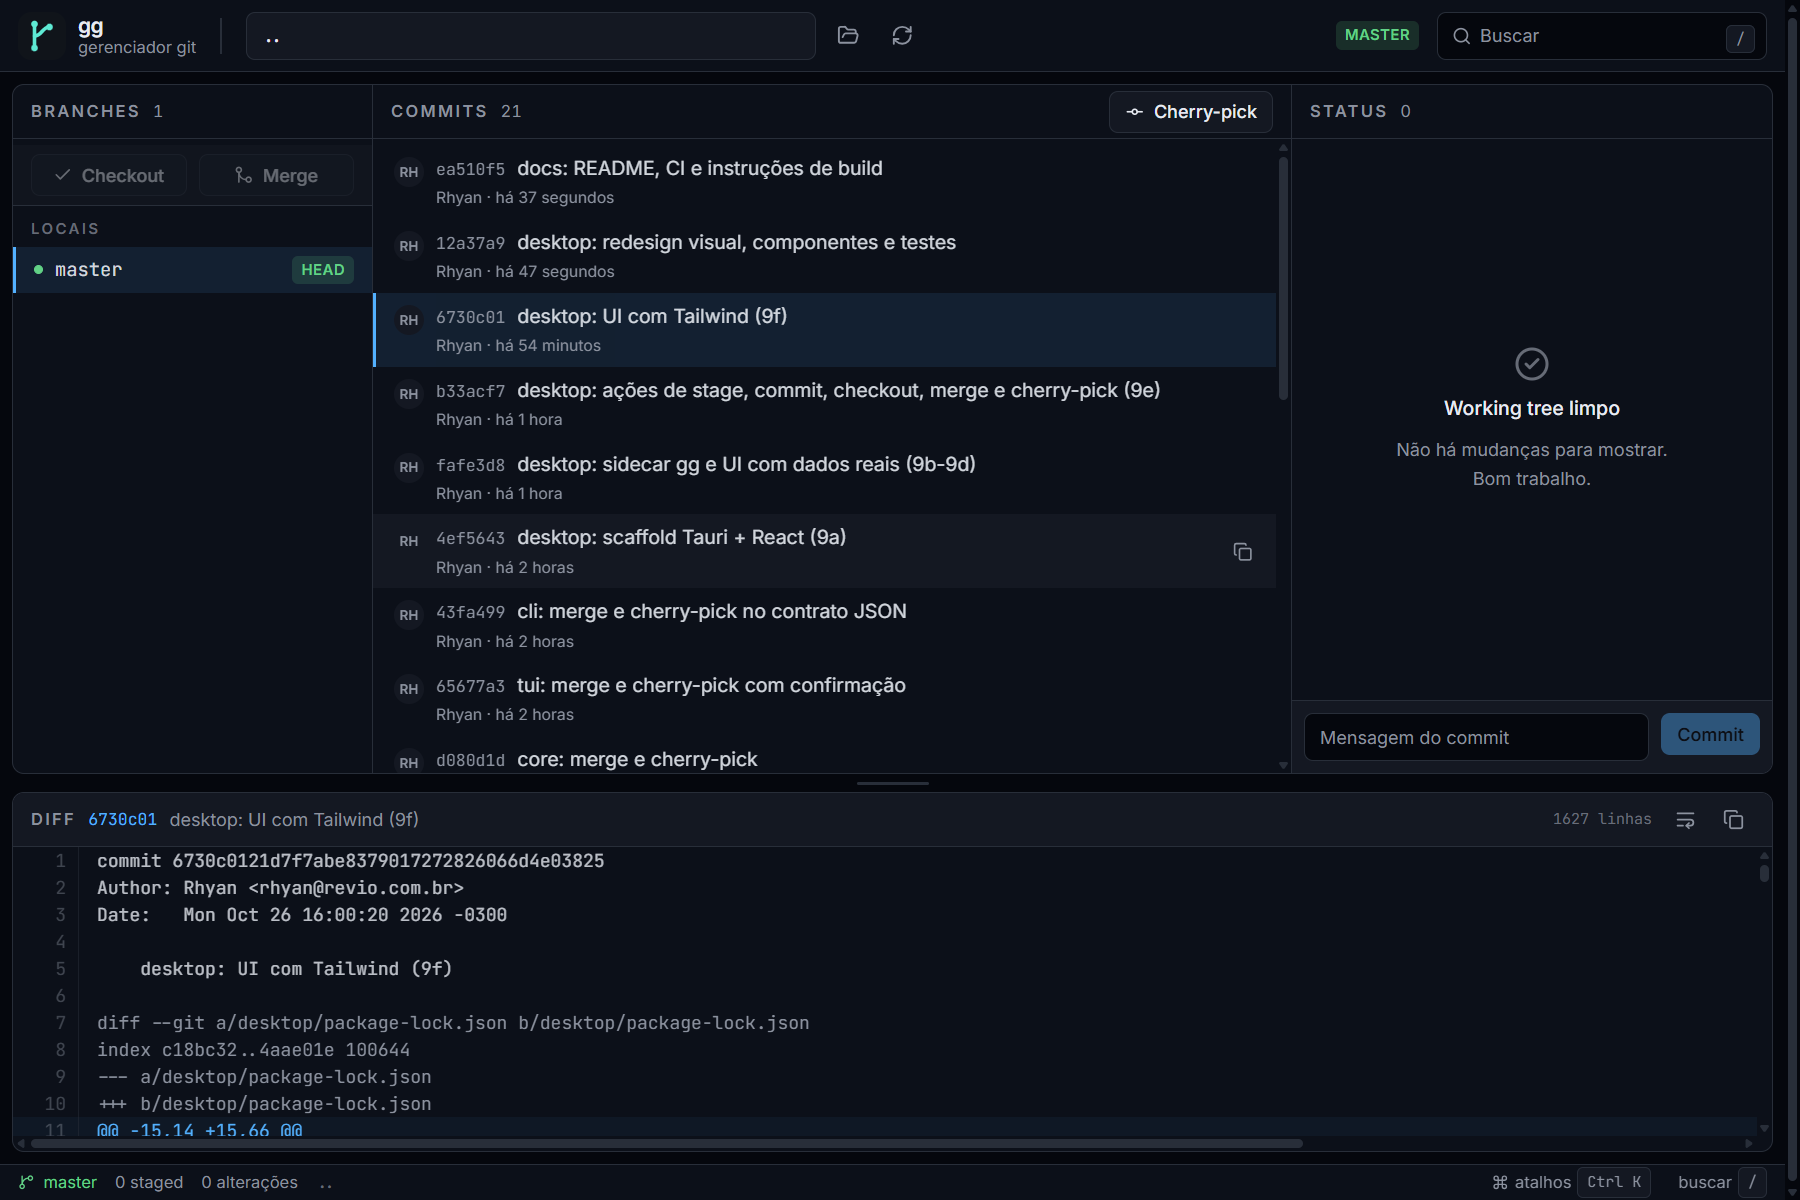
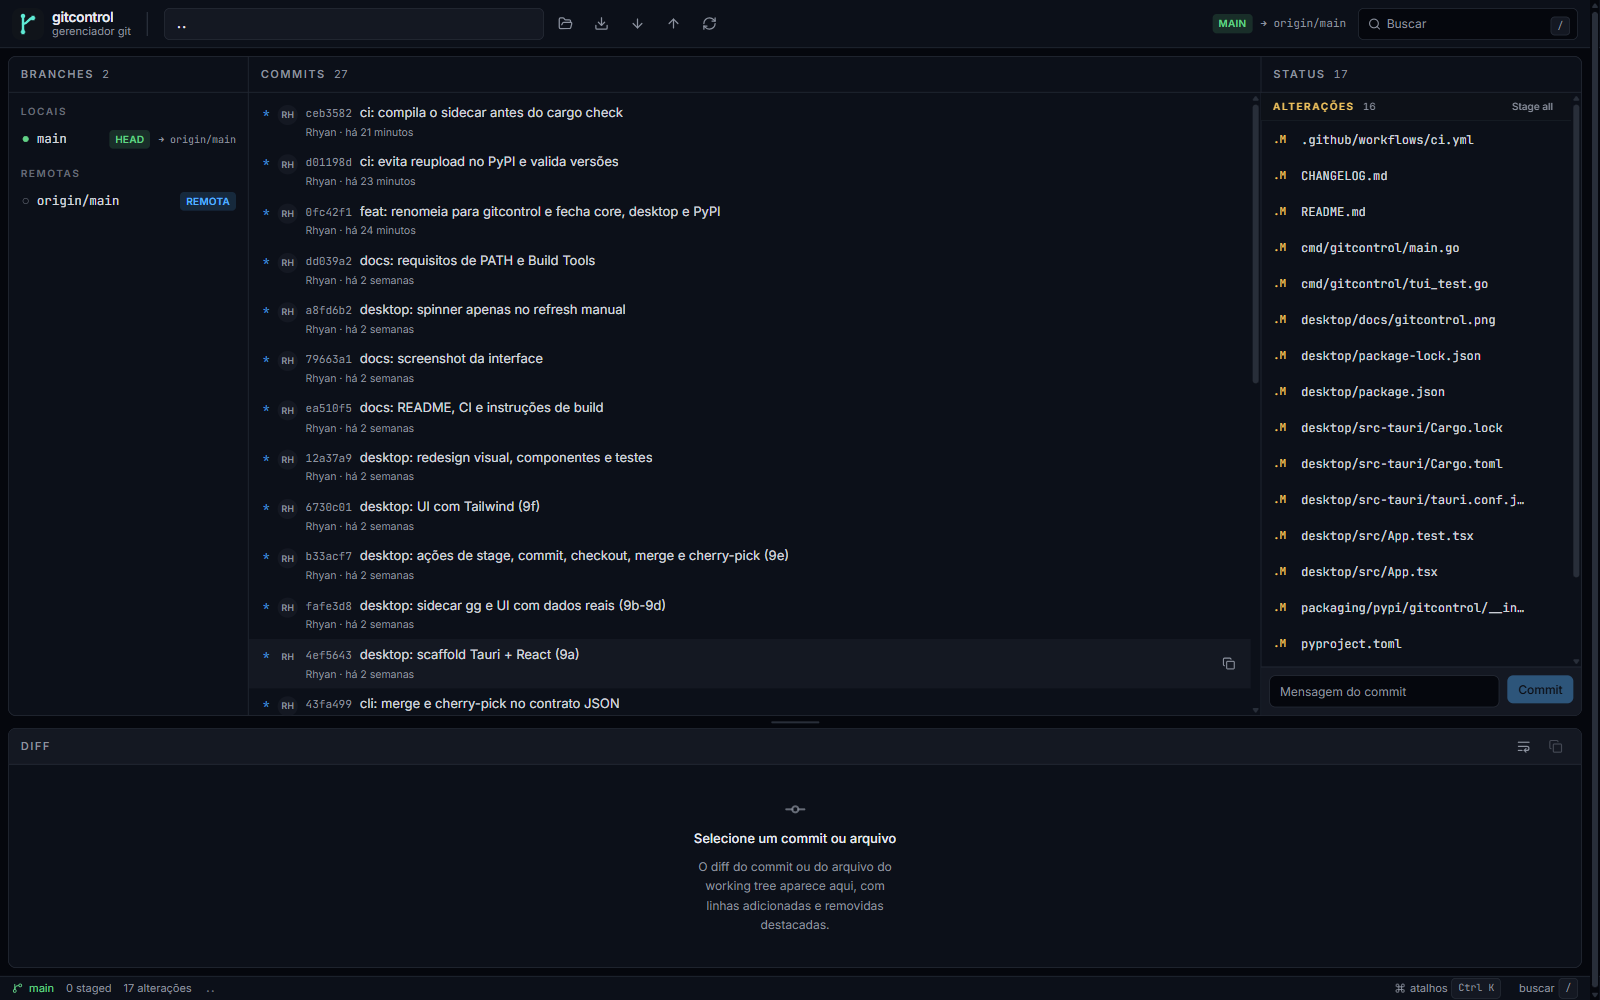
release: v0.1.1

diff --git a/desktop/src/App.test.tsx b/desktop/src/App.test.tsx
@@ -146,6 +146,53 @@ describe("App", () => {
     });
   });
 
+  it("abre o diff do arquivo ao clicar no status", async () => {
+    const user = userEvent.setup();
+    mockRepo(statusWith());
+    renderApp();
+
+    await user.click(
+      await screen.findByRole("button", { name: "src/App.tsx" }),
+    );
+
+    await waitFor(() => {
+      expect(runMock).toHaveBeenCalledWith(
+        expect.any(String),
+        "diff",
+        "src/App.tsx",
+      );
+    });
+    expect(await screen.findByText("+linha nova")).toBeInTheDocument();
+  });
+
+  it("continua merge em conflito", async () => {
+    const user = userEvent.setup();
+    mockRepo(
+      statusWith({
+        operation: "merge",
+        files: [
+          { path: "a.txt", index_xy: "U", worktree_xy: "U", unmerged: true },
+        ],
+      }),
+    );
+    renderApp();
+
+    expect(await screen.findByText("merge em andamento")).toBeInTheDocument();
+    await user.click(screen.getByRole("button", { name: "Continuar" }));
+
+    await waitFor(() => {
+      expect(
+        screen.getAllByRole("button", { name: "Continuar" }),
+      ).toHaveLength(2);
+    });
+    const buttons = screen.getAllByRole("button", { name: "Continuar" });
+    await user.click(buttons[buttons.length - 1]);
+
+    await waitFor(() => {
+      expect(runMock).toHaveBeenCalledWith(expect.any(String), "continue");
+    });
+  });
+
   it("filtra os painéis pela busca", async () => {
     const user = userEvent.setup();
     mockRepo(statusWith());

diff --git a/desktop/src/App.tsx b/desktop/src/App.tsx
@@ -646,8 +646,8 @@ function App() {
       )}
 
       <div className="flex min-h-0 flex-1 flex-col px-2 pt-2">
-        <div className="flex min-h-0 flex-1 overflow-hidden rounded-lg border border-line bg-surface">
-          <div className="grid min-h-0 flex-1 grid-cols-1 divide-y divide-line overflow-auto lg:grid-cols-[240px_minmax(0,1fr)_320px] lg:divide-x lg:divide-y-0 lg:overflow-hidden">
+        <div className="flex min-h-0 min-w-0 flex-1 overflow-hidden rounded-lg border border-line bg-surface">
+          <div className="grid min-h-0 min-w-0 flex-1 grid-cols-1 divide-y divide-line overflow-auto lg:grid-cols-[240px_minmax(0,1fr)_320px] lg:divide-x lg:divide-y-0 lg:overflow-hidden">
             <BranchPanel
               branches={filteredBranches}
               selected={selectedBranch}

diff --git a/cmd/gitcontrol/tui_test.go b/cmd/gitcontrol/tui_test.go
@@ -537,3 +537,52 @@ func TestDiffScrollKeys(t *testing.T) {
 		t.Errorf("home: scroll = %d, esperava 0", got)
 	}
 }
+
+func TestCommitLinesShowGraph(t *testing.T) {
+	m := model{
+		commits: []git.Commit{{Hash: "abcdef1234567890", Subject: "primeiro"}},
+		graph:   map[string]string{"abcdef1234567890": "| *"},
+	}
+	lines := m.commitLines()
+	if len(lines) != 1 || !strings.Contains(lines[0], "| *") {
+		t.Fatalf("commitLines = %+v, esperava prefixo de grafo", lines)
+	}
+}
+
+func TestFooterShowsRemoteAndConflictKeys(t *testing.T) {
+	m := model{loaded: true, width: 160, height: 40}
+	footer := m.footerText()
+	for _, want := range []string{"f fetch", "p pull", "P push", "a/x conflito"} {
+		if !strings.Contains(footer, want) {
+			t.Errorf("footer não contém %q: %s", want, footer)
+		}
+	}
+}
+
+func TestAbortWithoutOperationSetsNotice(t *testing.T) {
+	m := model{status: &git.StatusResult{}}
+	m.startAbort()
+	if m.mode != modeNormal {
+		t.Errorf("mode = %v, esperava normal", m.mode)
+	}
+	if !strings.Contains(m.notice, "nenhuma operação") {
+		t.Errorf("notice = %q", m.notice)
+	}
+}
+
+func TestSwitchRepoChangesActiveIndex(t *testing.T) {
+	m := model{
+		repoPaths: []string{t.TempDir(), t.TempDir()},
+		repoIndex: 0,
+		loaded:    true,
+	}
+	m.repo = git.New(m.repoPaths[0])
+
+	m.switchRepo(1)
+	if m.repoIndex != 1 {
+		t.Errorf("repoIndex = %d, esperava 1", m.repoIndex)
+	}
+	if m.loaded {
+		t.Error("switchRepo deveria marcar loaded=false")
+	}
+}

diff --git a/scripts/build_pypi.py b/scripts/build_pypi.py
@@ -2,12 +2,21 @@
 """Compila os binários Go para o wheel universal do PyPI."""
 
 import os
+import re
 import shutil
 import subprocess
 from pathlib import Path
 
 ROOT = Path(__file__).resolve().parents[1]
 BIN_DIR = ROOT / "packaging" / "pypi" / "gitcontrol" / "bin"
+
+
+def project_version() -> str:
+    text = (ROOT / "pyproject.toml").read_text(encoding="utf-8")
+    match = re.search(r'^version = "([^"]+)"', text, re.M)
+    if not match:
+        raise SystemExit("versão não encontrada em pyproject.toml")
+    return match.group(1)
 
 TARGETS = [
     ("windows", "amd64"),
@@ -19,7 +28,7 @@ TARGETS = [
 
 
 def main() -> None:
-    version = os.environ.get("VERSION", "0.1.0")
+    version = os.environ.get("VERSION") or project_version()
     shutil.rmtree(BIN_DIR, ignore_errors=True)
     BIN_DIR.mkdir(parents=True, exist_ok=True)
 

diff --git a/cmd/gitcontrol/main.go b/cmd/gitcontrol/main.go
@@ -8,7 +8,7 @@ import (
 	"github.com/rhyan05/gitcontrol/internal/git"
 )
 
-var version = "0.1.0"
+var version = "0.1.1"
 
 const usage = `uso:
   gitcontrol [--repo <path>] [repo...]        abre a TUI

diff --git a/packaging/pypi/gitcontrol/__init__.py b/packaging/pypi/gitcontrol/__init__.py
@@ -1,3 +1,3 @@
 """Launcher do binário Go do gitcontrol empacotado no wheel."""
 
-__version__ = "0.1.0"
+__version__ = "0.1.1"

diff --git a/README.md b/README.md
@@ -1,5 +1,9 @@
 # gitcontrol
 
+[![ci](https://github.com/rhyan05/gitcontrol/actions/workflows/ci.yml/badge.svg)](https://github.com/rhyan05/gitcontrol/actions/workflows/ci.yml)
+[![PyPI](https://img.shields.io/pypi/v/gitcontrol)](https://pypi.org/project/gitcontrol/)
+[![License: MIT](https://img.shields.io/badge/license-MIT-blue.svg)](LICENSE)
+
 Gerenciador de Git com três interfaces sobre o mesmo core:
 
 - **TUI** em Go/Bubble Tea para operar tudo pelo terminal.
@@ -123,8 +127,8 @@ npm run tauri -- build
 
 Artefatos:
 
-- `desktop/src-tauri/target/release/bundle/msi/gitcontrol_0.1.0_x64_en-US.msi`
-- `desktop/src-tauri/target/release/bundle/nsis/gitcontrol_0.1.0_x64-setup.exe`
+- `desktop/src-tauri/target/release/bundle/msi/gitcontrol_0.1.1_x64_en-US.msi`
+- `desktop/src-tauri/target/release/bundle/nsis/gitcontrol_0.1.1_x64-setup.exe`
 
 Atalhos da GUI: `/` busca, `r` atualiza, `Ctrl/Cmd+K` abre a paleta de comandos,
 `Esc` fecha diálogos. O painel de diff é redimensionável pela alça acima dele.

diff --git a/CHANGELOG.md b/CHANGELOG.md
@@ -1,5 +1,14 @@
 # Changelog
 
+## 0.1.1
+
+- CI do Rust compila o sidecar antes do `cargo check`.
+- CI ganhou smoke test do wheel PyPI (build, instalação em venv, `--version` e
+  `--json status`).
+- Testes adicionais para grafo, troca de repositório e ações novas da TUI.
+- Screenshot e metadados do repositório atualizados.
+- Release workflow validado ponta a ponta e publicando no PyPI via secret.
+
 ## 0.1.0
 
 - Core Go com status, log, grafo, branches, show, diff, checkout, merge,
